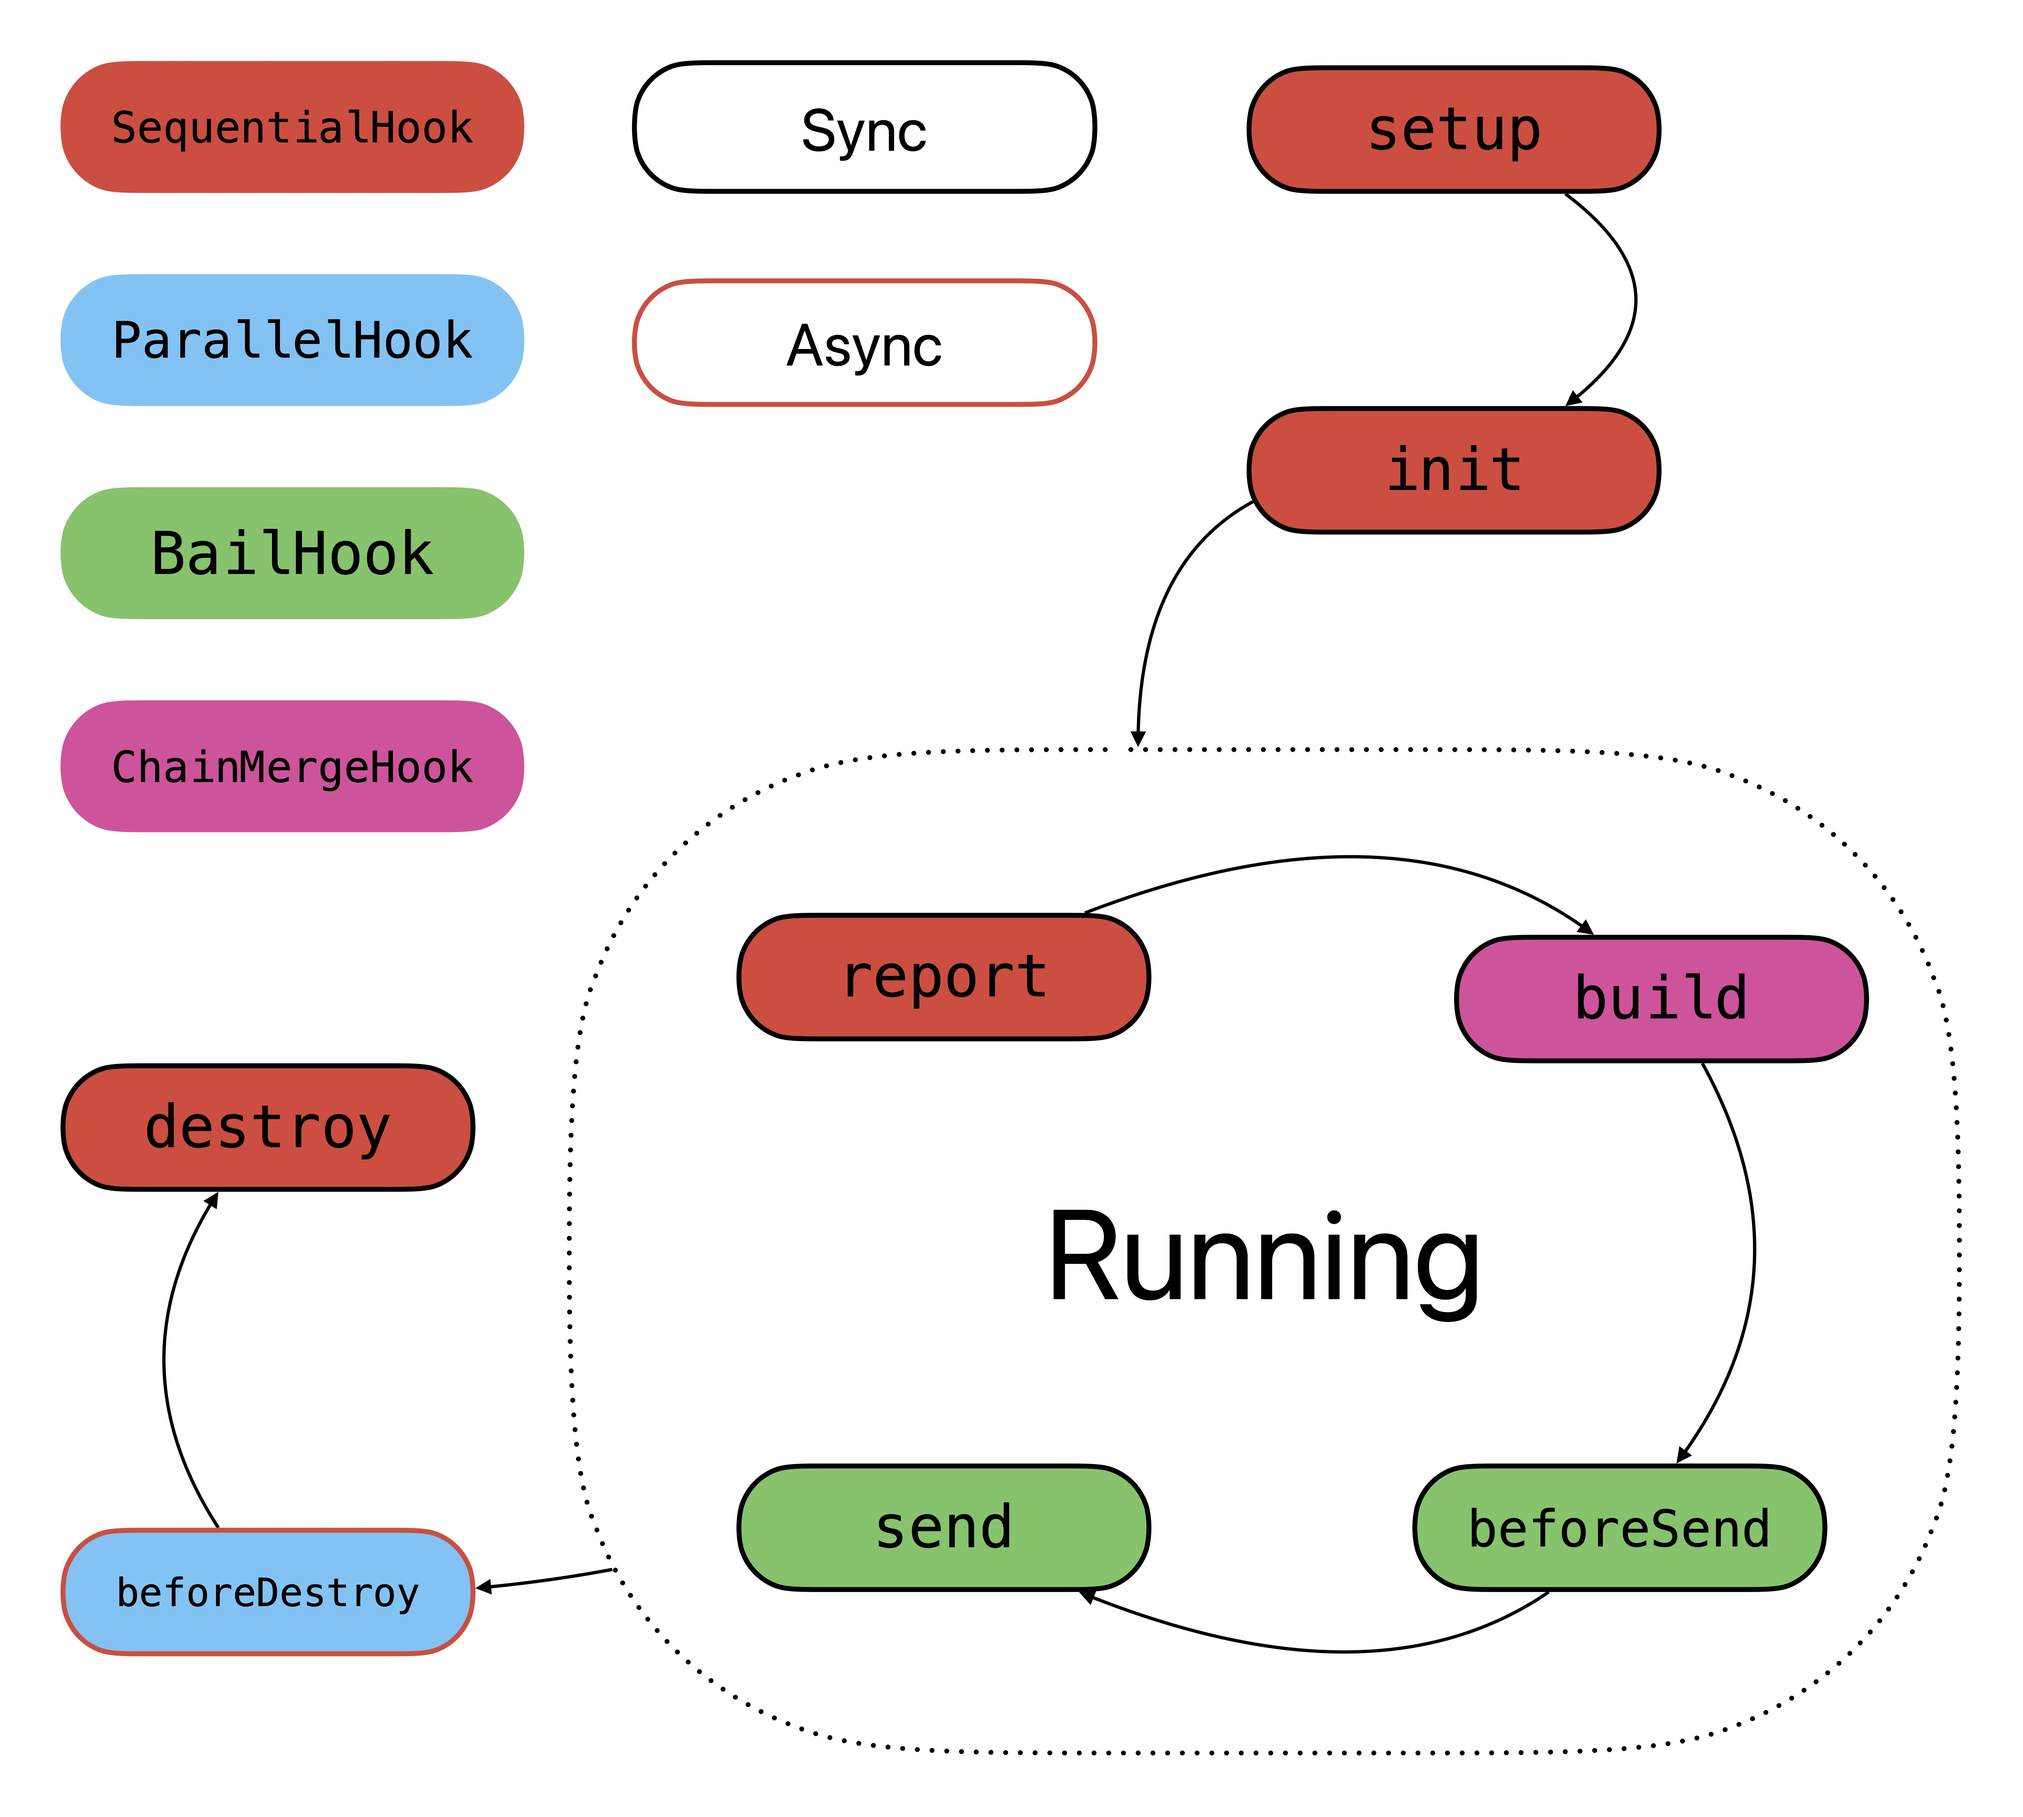
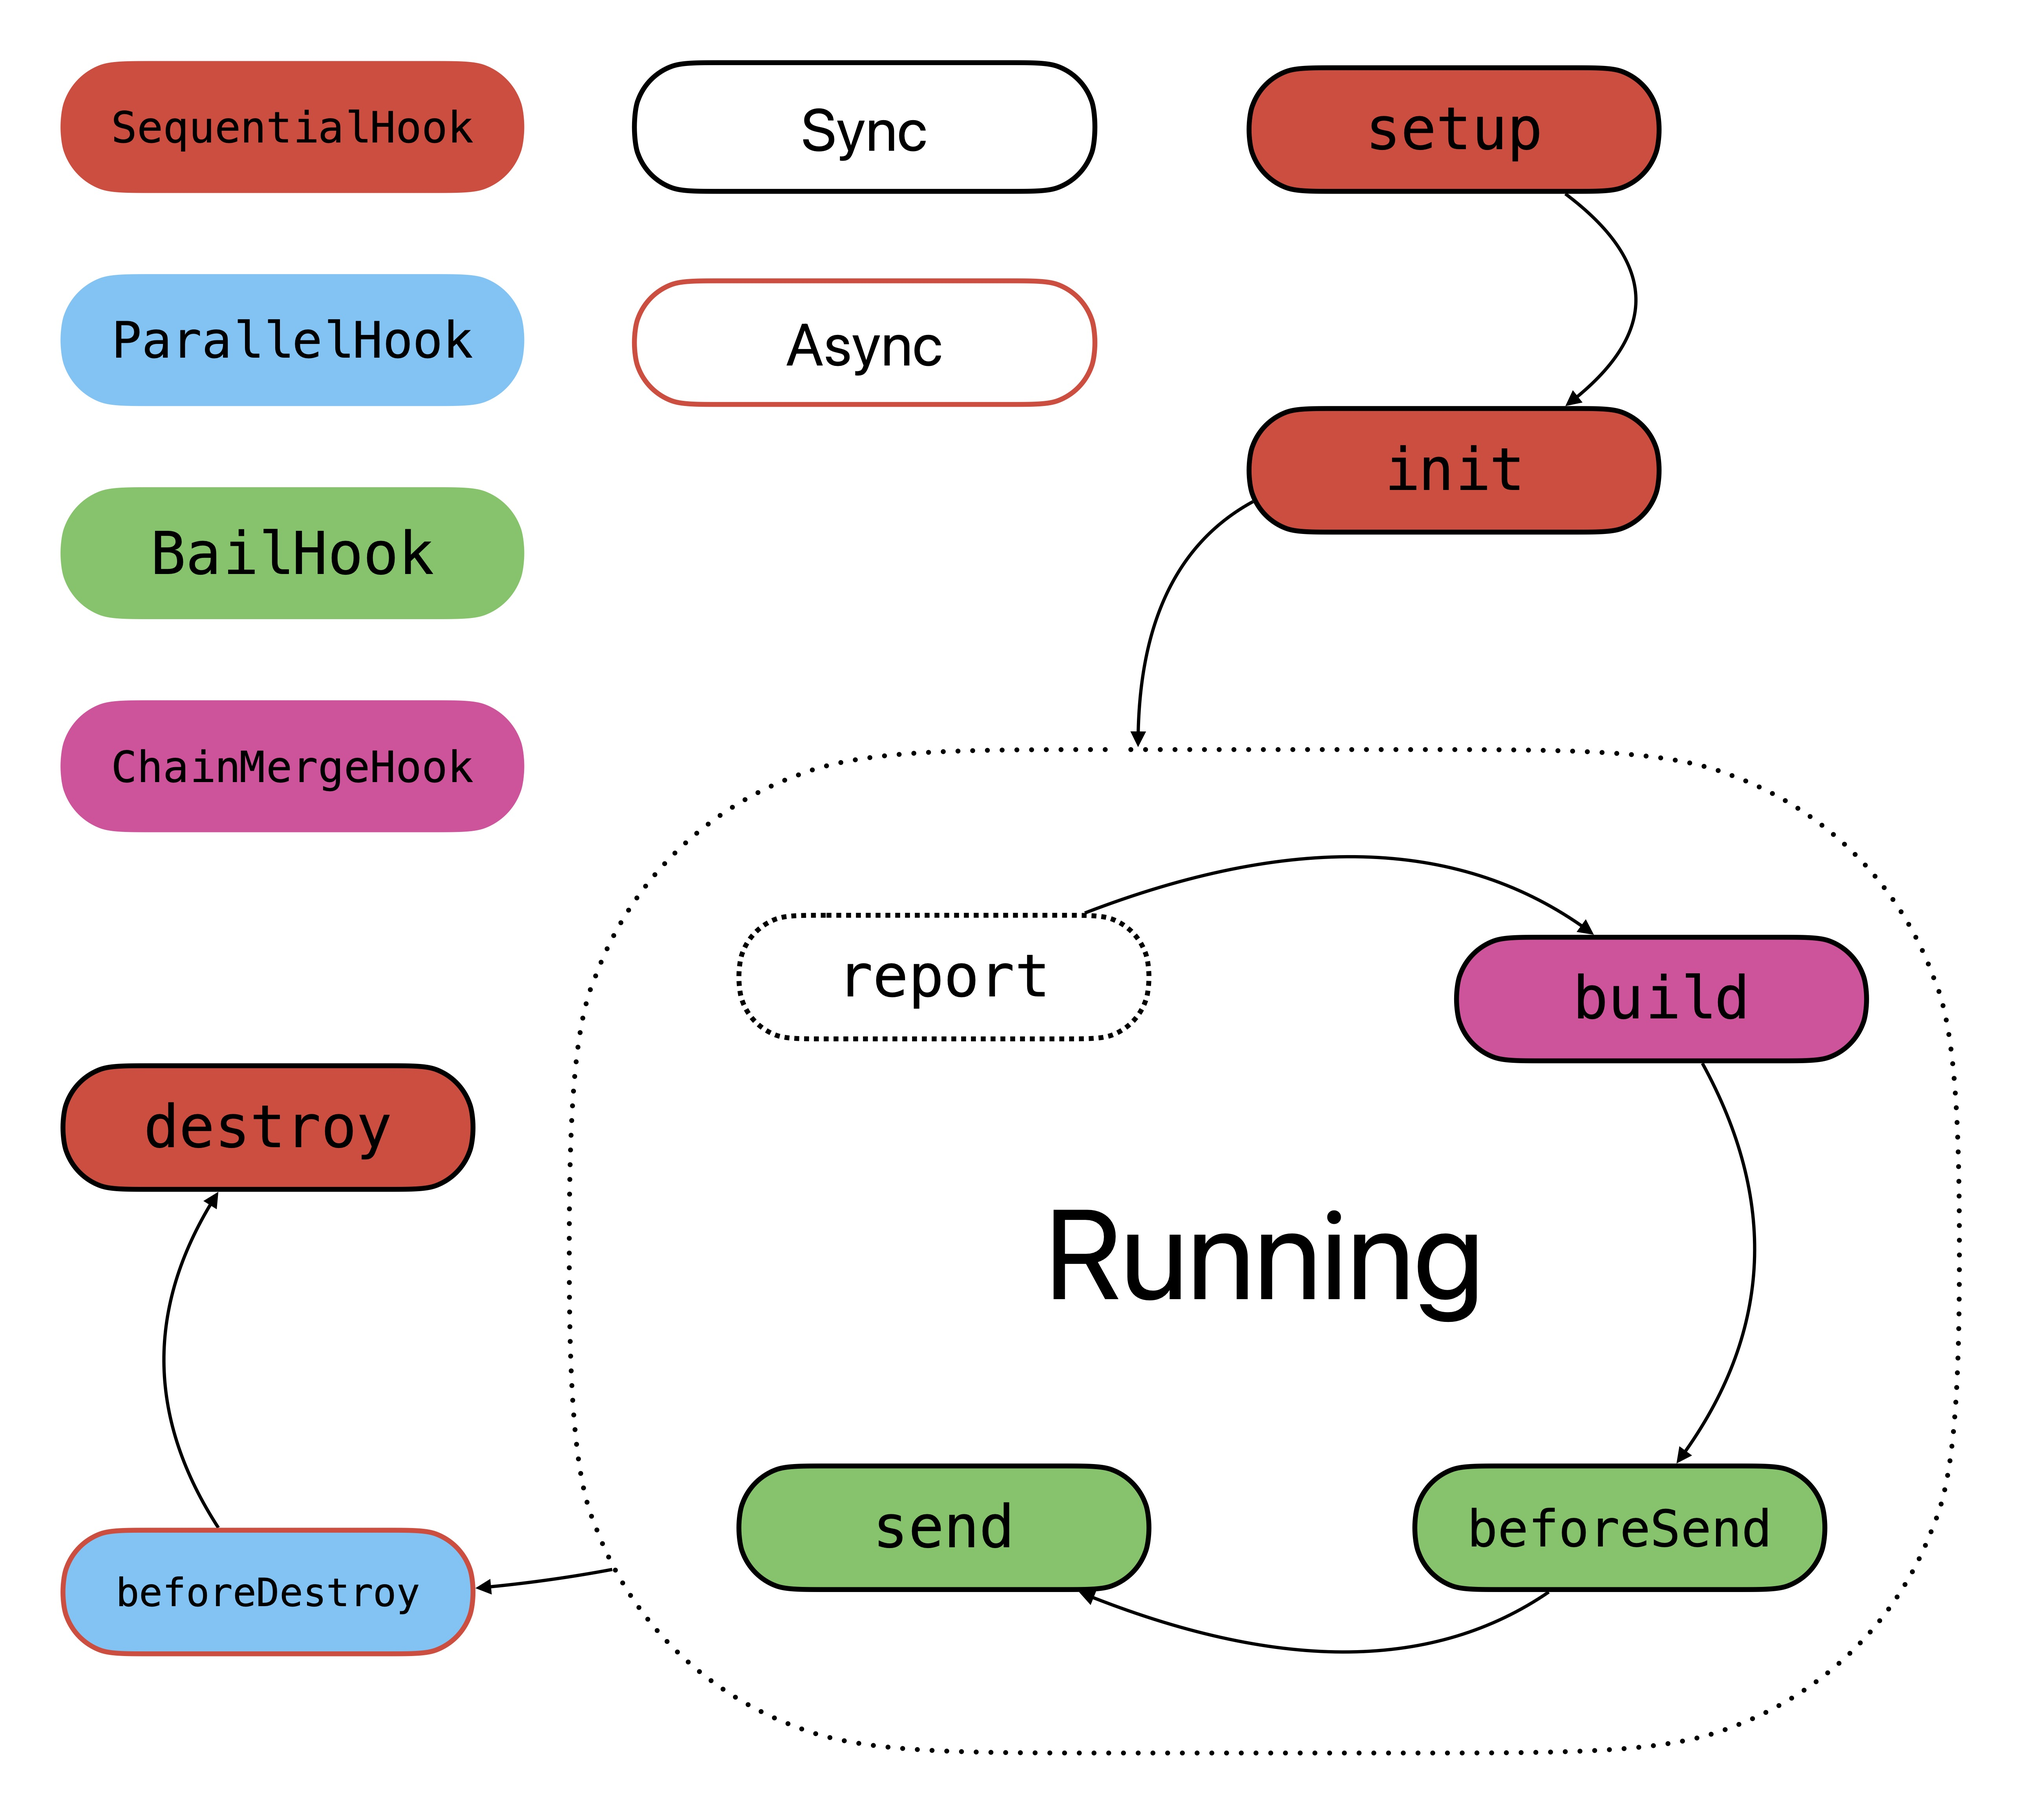
feat(core): remove "report" hooks and add report meta

Changed region(s): [[0.3437, 0.4978, 0.5936, 0.5912]]

diff --git a/packages/core/src/plugin.ts b/packages/core/src/plugin.ts
@@ -9,21 +9,24 @@ export interface NormalPlugin {
 }
 
 export interface FunctionPlugins {
-  // 同步 顺序执行
+  // Sync Sequential
   setup: (this: PluginContext, initConfig: TracingCoreConfig) => void;
-  // 同步 顺序执行
+  // Sync Sequential
   init: (this: PluginContext, ctx: TracingCore) => void;
-  // 同步 顺序执行
-  report: (this: PluginContext, event: string, record: Record<string, any>) => void;
-  // 同步 循环合并
-  build: (this: PluginContext, event: string, record: Record<string, any>) => Record<string, any>;
-  // 同步 熔断执行
+  // Sync ChainMerge
+  build: (
+    this: PluginContext,
+    event: string,
+    record: Record<string, any>,
+    meta?: unknown
+  ) => Record<string, any>;
+  // Sync Bail
   beforeSend: (this: PluginContext, event: string, build: Record<string, any>) => boolean | void | null;
-  // 同步 熔断执行
+  // Sync Bail
   send: (this: PluginContext, event: string, build: Record<string, any>) => boolean | void | null;
-  // 异步 并行执行
+  // Async Parallel
   beforeDestroy: (this: PluginContext, ctx: TracingCore) => any;
-  // 同步 顺序执行
+  // Sync Sequential
   destroy: (this: PluginContext, ctx: TracingCore) => void;
 }
 
@@ -38,13 +41,13 @@ type MakeAsync<Fn> = Fn extends (this: infer This, ...args: infer Args) => infer
 export type AsyncPluginHooks = "beforeDestroy";
 
 export type SyncPluginHooks = Exclude<keyof FunctionPlugins, AsyncPluginHooks>;
-// 按照顺序执行
-export type SequentialPluginHooks = "setup" | "init" | "report" | "destroy";
-// 同时执行
+// run as sequential
+export type SequentialPluginHooks = "setup" | "init" | "destroy";
+// run as parallel
 export type ParallelPluginHooks = "beforeDestroy";
-// 只要有一个错误，则直接返回
+// if return then stop
 export type BailPluginHooks = "beforeSend" | "send";
-// 需要按照顺序循环合并值
+// run as merge
 export type ChainMergeHooks = Exclude<
   keyof FunctionPlugins,
   SequentialPluginHooks | ParallelPluginHooks | BailPluginHooks

diff --git a/packages/core/src/core.ts b/packages/core/src/core.ts
@@ -39,7 +39,7 @@ export class TracingCore {
     this.pluginDriver.hookSequentialSync("init", [this]);
   }
 
-  public report(event: string, record: Record<string, any>) {
+  public report(event: string, record: Record<string, any>, meta?: unknown) {
     if (!this.initialized) {
       __DEV__ && this.logger.warn('"TracingCore" Not initialized, please execute after initialization');
       return;
@@ -50,13 +50,11 @@ export class TracingCore {
       return;
     }
 
-    this.pluginDriver.hookSequentialSync("report", [event, record]);
-
-    this.build(event, record);
+    this.build(event, record, meta);
   }
 
-  private build(event: string, record: Record<string, any>) {
-    const build = this.pluginDriver.hookChainMergeSync("build", [event, record], {});
+  private build(event: string, record: Record<string, any>, meta?: unknown) {
+    const build = this.pluginDriver.hookChainMergeSync("build", [event, record, meta], {});
 
     this.send(event, build);
   }

diff --git a/README.md b/README.md
@@ -64,8 +64,6 @@ export interface FunctionPlugins {
   setup: (this: PluginContext, initConfig: TracingCoreConfig) => void;
   // 初始化完成
   init: (this: PluginContext, ctx: TracingCore) => void;
-  // 触发一个数据报告
-  report: (this: PluginContext, event: string, record: Record<string, any>) => void;
   // 组装合并需要发送的数据
   build: (this: PluginContext, event: string, record: Record<string, any>) => Record<string, any>;
   // 发送数据前，主要用于阻止发送
@@ -141,7 +139,7 @@ Hooks 有很多执行方式，最常见的就是单纯的调用，像 Vue 的生
 
 如果按照执行方式可分为：
 
-1. 顺序执行 Hook 如 setup 、init、report、destroy，这些会按照 Hook 顺序，一个一个执行
+1. 顺序执行 Hook 如 setup 、init、destroy，这些会按照 Hook 顺序，一个一个执行
 2. 熔断执行 Hook 如 beforeSend、 send ，这些在遇到第一个返回 false 的就不会再执行后边的
 3. 同步执行 Hook 如 beforeDestroy ，这个会同时执行，只有全部返回才会执行下一个 Hook
 4. 顺序合并 Hook 如 build ，这个会把每一个 Hook 的返回值，合并到一起
@@ -156,7 +154,7 @@ Hooks 有很多执行方式，最常见的就是单纯的调用，像 Vue 的生
 
 ### 基于 Event
 
-Tracing 会拥有非常多的监听，每一个监听定义为一个事件，拥有一个 name ，这点在 report 这个 Hook 就有表示，每一个 Event 都应是独立的、收敛的、一致的
+Tracing 会拥有非常多的监听，每一个监听定义为一个事件，拥有一个 name ，这点在 build 这个 Hook 就有表示，每一个 Event 都应是独立的、收敛的、一致的
 
 每一个 Event 都应该表示一个监听不能重复，是一个个独立个体
 
